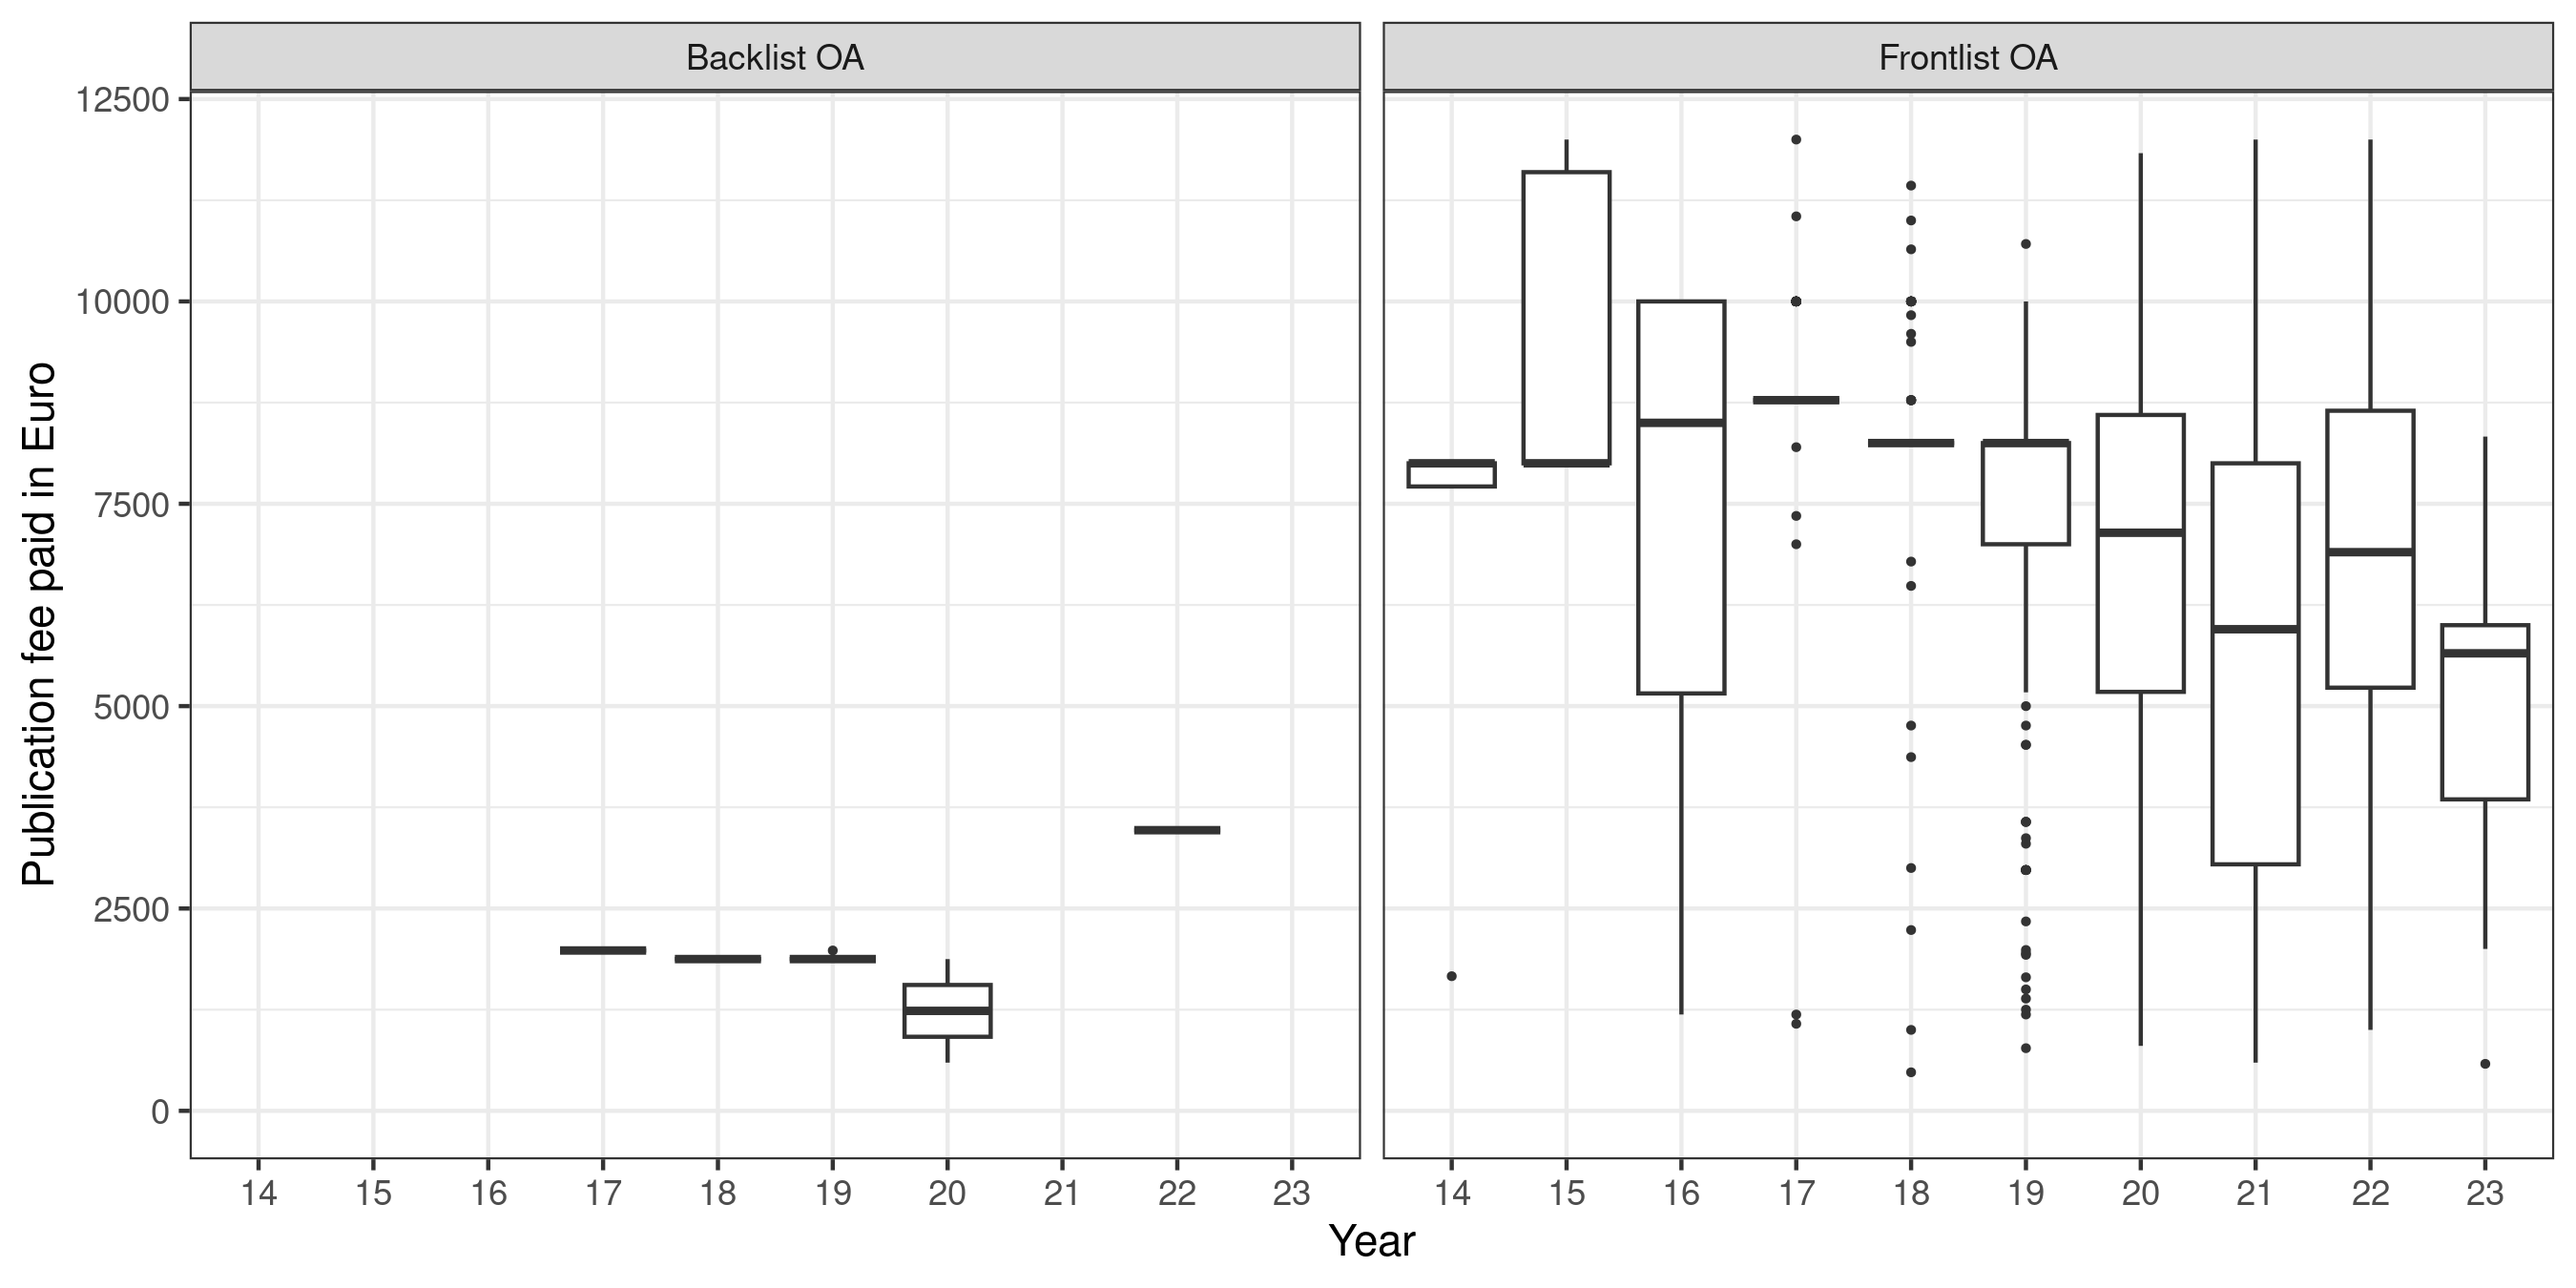
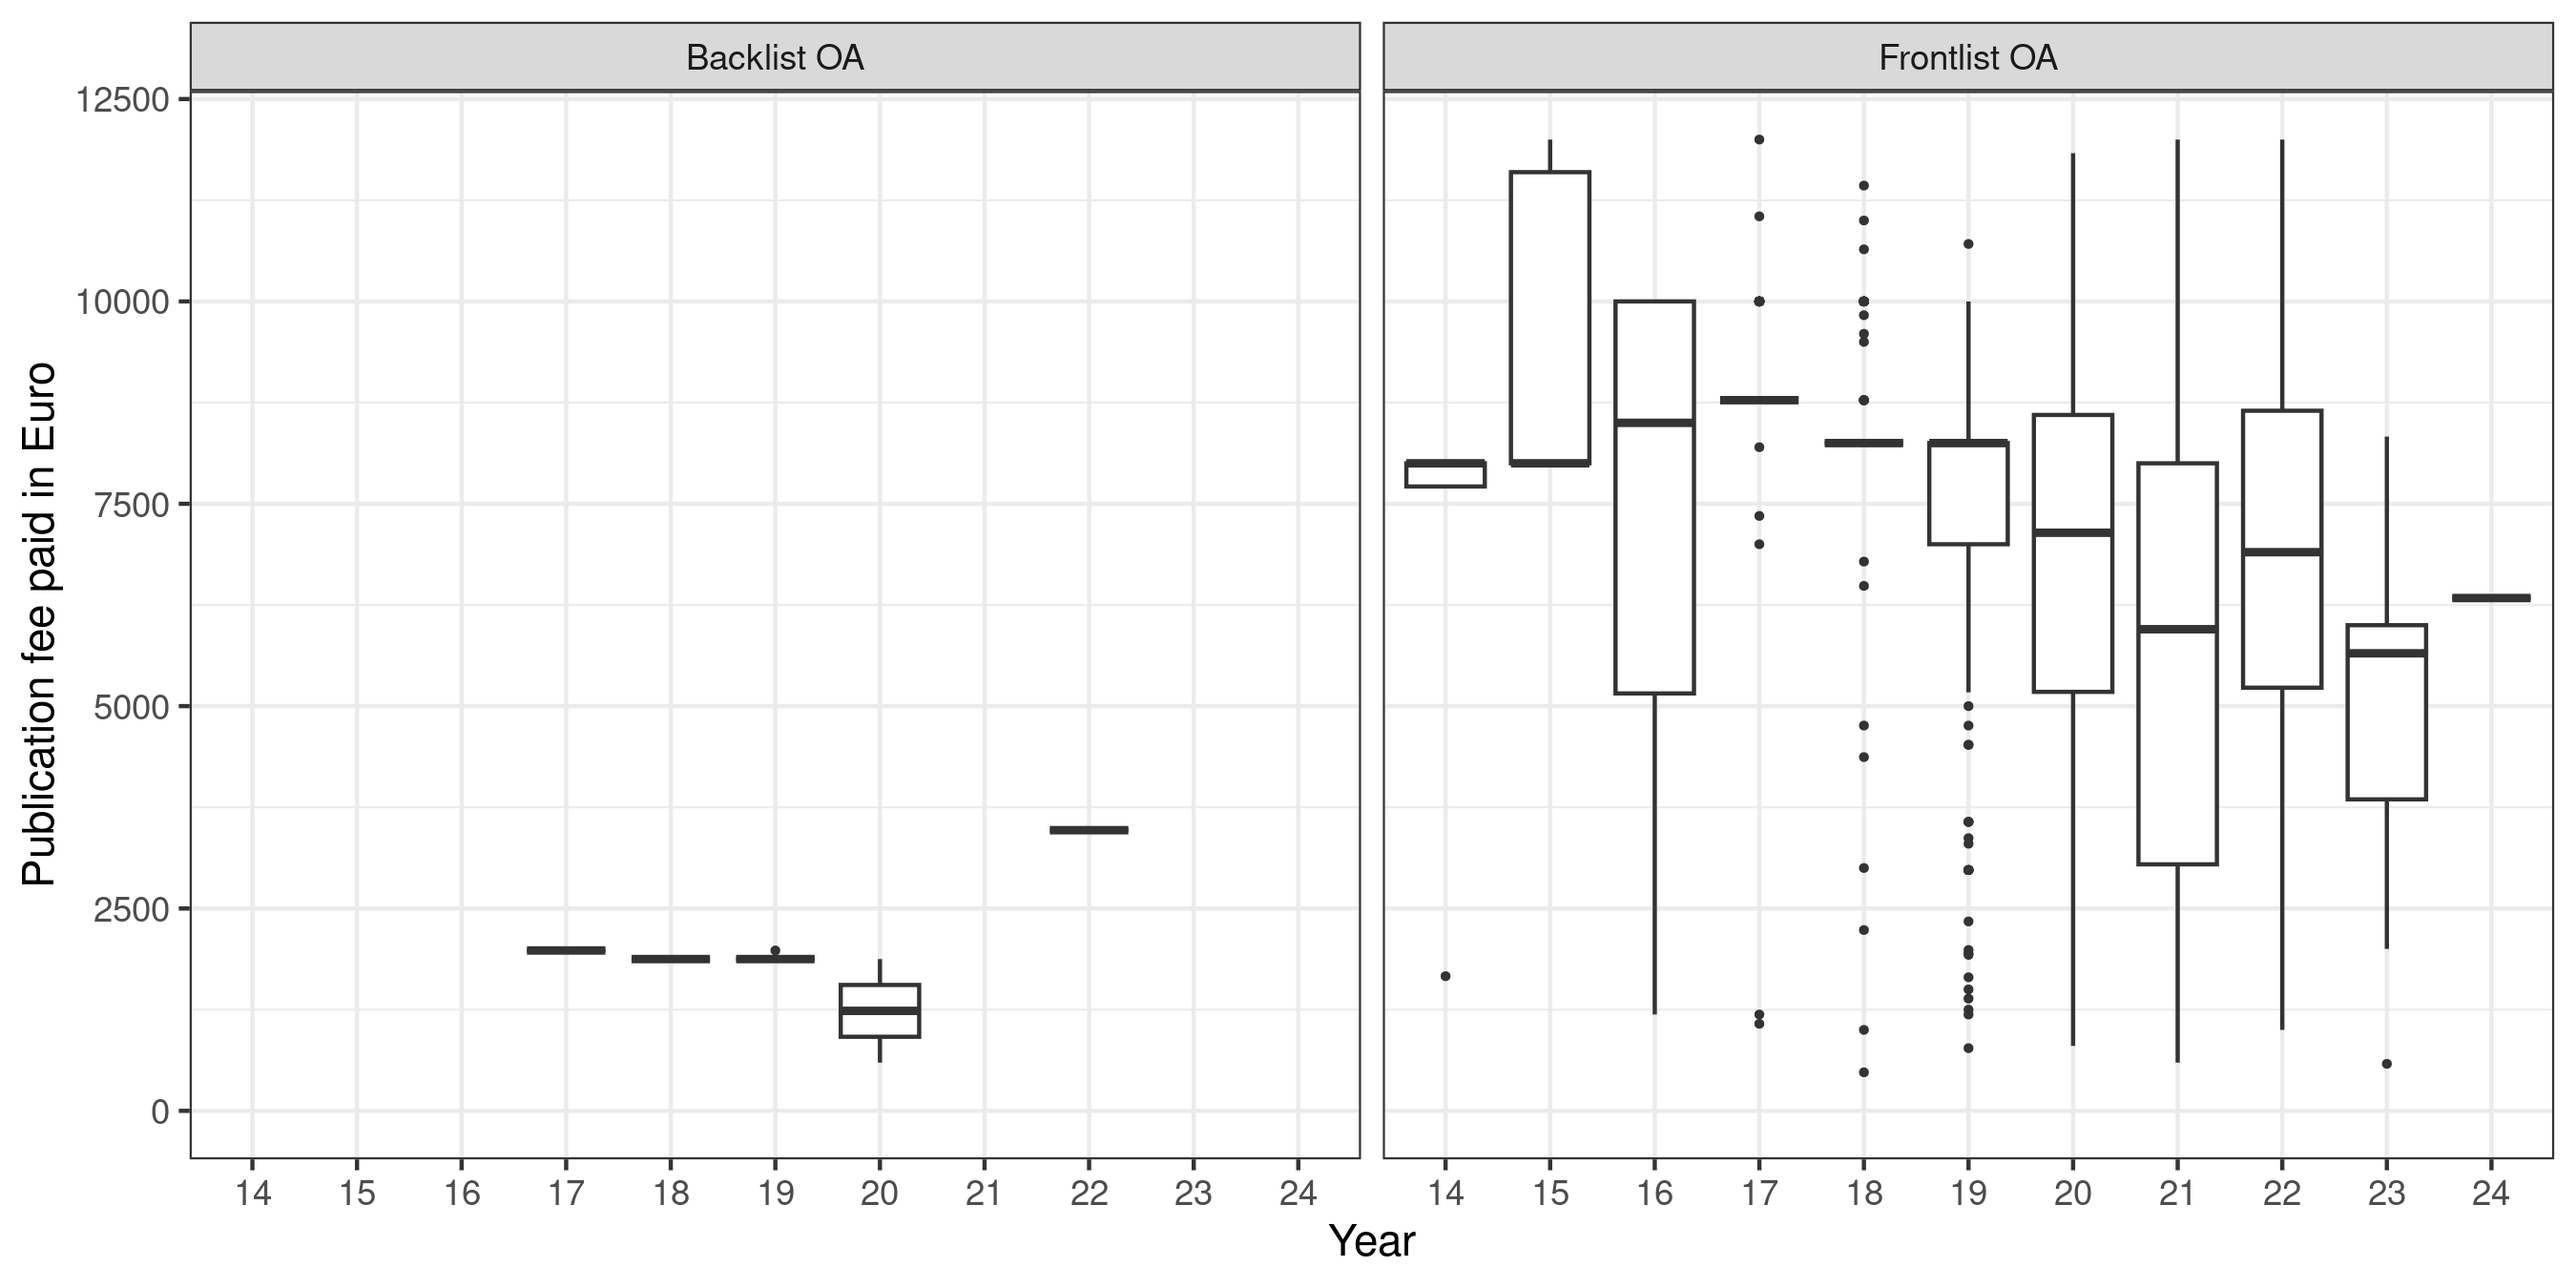
data added to collection

diff --git a/README.md b/README.md
@@ -17,7 +17,7 @@ At the moment this project provides the following cost data:
 | Publication Type | Count           | Aggregated Sum (€)      | Contributing Institutions              |
 |------------------|-----------------|-------------------------|----------------------------------------|
 | Articles         |205,120 | 399,803,993    | 426 |
-| Monographs       |1,806 | 11,703,744    | 52 |
+| Monographs       |1,807 | 11,710,079    | 53 |
 
 ## How to access the data?
 
@@ -790,9 +790,9 @@ Hybrid open access journals rely on both publication fees and subscriptions as r
 
 ### Books (BPCs)
 
-The book data set contains information on 1,806 open access books. Publication fees were supported financially by 52 research performing institutions and funders. 
+The book data set contains information on 1,807 open access books. Publication fees were supported financially by 53 research performing institutions and funders. 
 
-In total, book processing charges covered by the OpenAPC initiative amounted to € 11,703,744. The average payment was € 6,480 and the median was € 6,732.
+In total, book processing charges covered by the OpenAPC initiative amounted to € 11,710,079. The average payment was € 6,480 and the median was € 6,728.
 
 Books can be made Open Access right from the beginning ("frontlist") or only retroactively after having been published traditionally in the first place ("backlist"), which can have a big influence on the paid BPCs.
 
@@ -818,6 +818,7 @@ Books can be made Open Access right from the beginning ("frontlist") or only ret
 |2021   |             172|    6,950|      6,349|   595 - 18,000|             NA|       NA|         NA|            NA|
 |2022   |             187|    7,793|      6,902| 1,000 - 50,000|              1|    3,467|      3,467| 3,467 - 3,467|
 |2023   |              49|    5,165|      5,652|   580 -  8,330|             NA|       NA|         NA|            NA|
+|2024   |               1|    6,335|      6,335| 6,335 -  6,335|             NA|       NA|         NA|            NA|
 
 
 
@@ -862,7 +863,7 @@ Metadata representing publication titles or publisher names is obtained from Cro
 
 |Identifier                 | Coverage (articles)                                               | Coverage (Books)                                            |
 |:--------------------------|:------------------------------------------------------------------|-------------------------------------------------------------|
-|DOI                        |  99.72%       |87.82%   |
+|DOI                        |  99.72%       |87.83%   |
 |PubMed ID                  |  73.53%      | NA                                                          |
 |PubMed Central ID          |  67.95%     | NA                                                          |
 |Web of Science record ID   | 81.17%         | NA                                                          |
